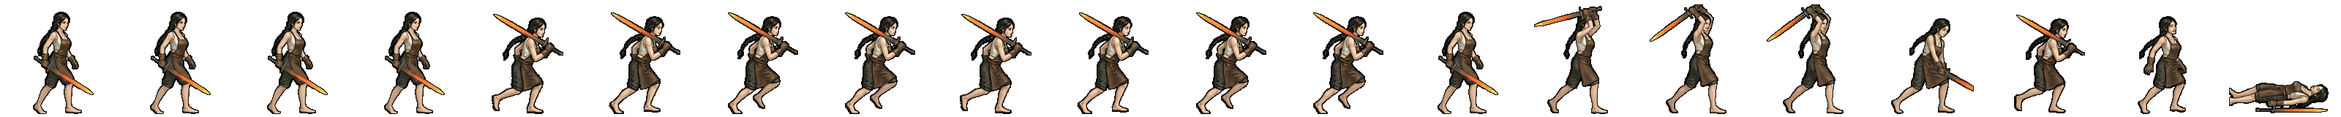
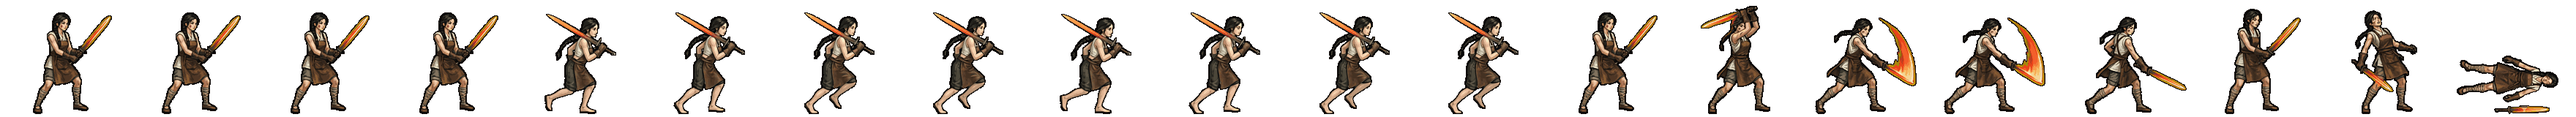
별 띠: 동작 8컷만 새로 (제미나이 u/1 · 초상만) — 큰 내려치기·쓰러짐으로 (걷기는 그대로)
Claude-Session: https://claude.ai/code/session_01TRiuN9kn81xgdziumEqNAF

diff --git a/src/realm/data/spritePx.ts b/src/realm/data/spritePx.ts
@@ -1,2 +1,2 @@
 /** public/realm/anim-px/manifest.json 의 사본 — tools/sprite-normalize.mjs 가 만든다 (손으로 고치지 말 것). 칸 [가로, 세로] · feet = 발 줄(칸 위에서 y) · bodyPx = 서 있는 몸 키 */
-export const SPRITE_PX: Readonly<Record<string, { readonly cell: readonly [number, number]; readonly feet: number; readonly bodyPx: number; readonly kind: 'general' | 'soldier' | 'folk' | 'crowd'; readonly cells: number }>> = {"axe":{"cell":[166,128],"feet":126,"bodyPx":124,"kind":"soldier","cells":20},"bandit-chief":{"cell":[116,128],"feet":126,"bodyPx":117,"kind":"soldier","cells":20},"bandit-club":{"cell":[127,128],"feet":126,"bodyPx":116,"kind":"soldier","cells":20},"boat":{"cell":[269,128],"feet":126,"bodyPx":126,"kind":"soldier","cells":20},"bow":{"cell":[503,128],"feet":126,"bodyPx":127,"kind":"soldier","cells":20},"crossbow":{"cell":[614,128],"feet":126,"bodyPx":126,"kind":"soldier","cells":20},"gen-adogan":{"cell":[144,160],"feet":156,"bodyPx":70,"kind":"general","cells":20},"gen-alpyeong":{"cell":[144,160],"feet":156,"bodyPx":70,"kind":"general","cells":20},"gen-ara":{"cell":[160,160],"feet":156,"bodyPx":70,"kind":"general","cells":20},"gen-areum":{"cell":[160,160],"feet":156,"bodyPx":70,"kind":"general","cells":20},"gen-aryeong":{"cell":[208,160],"feet":156,"bodyPx":70,"kind":"general","cells":20},"gen-bakdal":{"cell":[160,160],"feet":156,"bodyPx":70,"kind":"general","cells":20},"gen-baram":{"cell":[176,160],"feet":156,"bodyPx":70,"kind":"general","cells":20},"gen-bdanbi":{"cell":[152,160],"feet":156,"bodyPx":70,"kind":"general","cells":20},"gen-beom":{"cell":[168,160],"feet":156,"bodyPx":70,"kind":"general","cells":20},"gen-beombal":{"cell":[216,160],"feet":156,"bodyPx":70,"kind":"general","cells":20},"gen-beomi":{"cell":[160,160],"feet":156,"bodyPx":70,"kind":"general","cells":20},"gen-bira":{"cell":[176,160],"feet":156,"bodyPx":70,"kind":"general","cells":20},"gen-biryu":{"cell":[160,160],"feet":156,"bodyPx":73,"kind":"general","cells":20},"gen-budeul":{"cell":[248,160],"feet":156,"bodyPx":70,"kind":"general","cells":20},"gen-byeol":{"cell":[160,160],"feet":156,"bodyPx":70,"kind":"general","cells":20},"gen-daemusin":{"cell":[152,160],"feet":156,"bodyPx":70,"kind":"general","cells":20},"gen-daeso":{"cell":[176,160],"feet":156,"bodyPx":70,"kind":"general","cells":20},"gen-dallae2":{"cell":[168,160],"feet":156,"bodyPx":70,"kind":"general","cells":20},"gen-dalli":{"cell":[152,160],"feet":156,"bodyPx":70,"kind":"general","cells":20},"gen-damul":{"cell":[152,160],"feet":156,"bodyPx":70,"kind":"general","cells":20},"gen-danbi":{"cell":[152,160],"feet":156,"bodyPx":70,"kind":"general","cells":20},"gen-dangung":{"cell":[192,160],"feet":156,"bodyPx":70,"kind":"general","cells":20},"gen-darae":{"cell":[152,160],"feet":156,"bodyPx":70,"kind":"general","cells":20},"gen-dokmudeom":{"cell":[176,160],"feet":156,"bodyPx":70,"kind":"general","cells":20},"gen-duman":{"cell":[248,160],"feet":156,"bodyPx":70,"kind":"general","cells":20},"gen-eomni":{"cell":[160,160],"feet":156,"bodyPx":70,"kind":"general","cells":20},"gen-eureum":{"cell":[144,160],"feet":156,"bodyPx":70,"kind":"general","cells":20},"gen-g-bow":{"cell":[144,160],"feet":156,"bodyPx":70,"kind":"general","cells":20},"gen-g-spear":{"cell":[208,160],"feet":156,"bodyPx":70,"kind":"general","cells":20},"gen-g-sword":{"cell":[192,160],"feet":156,"bodyPx":70,"kind":"general","cells":20},"gen-gaennae":{"cell":[232,160],"feet":156,"bodyPx":70,"kind":"general","cells":20},"gen-gamsil":{"cell":[160,160],"feet":156,"bodyPx":70,"kind":"general","cells":20},"gen-gaon":{"cell":[152,160],"feet":156,"bodyPx":70,"kind":"general","cells":20},"gen-geota":{"cell":[192,160],"feet":156,"bodyPx":69,"kind":"general","cells":20},"gen-geumbawi":{"cell":[160,160],"feet":156,"bodyPx":70,"kind":"general","cells":20},"gen-geumha":{"cell":[192,160],"feet":156,"bodyPx":72,"kind":"general","cells":20},"gen-goeun":{"cell":[144,160],"feet":156,"bodyPx":70,"kind":"general","cells":20},"gen-gom":{"cell":[168,160],"feet":156,"bodyPx":70,"kind":"general","cells":20},"gen-gomok":{"cell":[152,160],"feet":156,"bodyPx":70,"kind":"general","cells":20},"gen-gureum":{"cell":[168,160],"feet":156,"bodyPx":70,"kind":"general","cells":20},"gen-guryema":{"cell":[152,160],"feet":156,"bodyPx":70,"kind":"general","cells":20},"gen-gwaeyu":{"cell":[200,160],"feet":156,"bodyPx":70,"kind":"general","cells":20},"gen-haebi":{"cell":[152,160],"feet":156,"bodyPx":70,"kind":"general","cells":20},"gen-haedal":{"cell":[152,160],"feet":156,"bodyPx":70,"kind":"general","cells":20},"gen-haesol":{"cell":[168,160],"feet":156,"bodyPx":70,"kind":"general","cells":20},"gen-halla":{"cell":[176,160],"feet":156,"bodyPx":70,"kind":"general","cells":20},"gen-heo":{"cell":[144,160],"feet":156,"bodyPx":70,"kind":"general","cells":20},"gen-hneoul":{"cell":[152,160],"feet":156,"bodyPx":70,"kind":"general","cells":20},"gen-hogong":{"cell":[160,160],"feet":156,"bodyPx":70,"kind":"general","cells":20},"gen-hojin":{"cell":[152,160],"feet":156,"bodyPx":70,"kind":"general","cells":20},"gen-horselord":{"cell":[144,160],"feet":156,"bodyPx":70,"kind":"general","cells":20},"gen-hwalmi":{"cell":[192,160],"feet":156,"bodyPx":70,"kind":"general","cells":20},"gen-hyeokgeose":{"cell":[160,160],"feet":156,"bodyPx":70,"kind":"general","cells":20},"gen-hyeopbo":{"cell":[168,160],"feet":156,"bodyPx":70,"kind":"general","cells":20},"gen-irang":{"cell":[160,160],"feet":156,"bodyPx":70,"kind":"general","cells":20},"gen-jibaekho":{"cell":[224,160],"feet":156,"bodyPx":70,"kind":"general","cells":20},"gen-jinha":{"cell":[168,160],"feet":156,"bodyPx":70,"kind":"general","cells":20},"gen-jita":{"cell":[144,160],"feet":156,"bodyPx":70,"kind":"general","cells":20},"gen-jumong":{"cell":[144,160],"feet":156,"bodyPx":70,"kind":"general","cells":20},"gen-keundol":{"cell":[152,160],"feet":156,"bodyPx":70,"kind":"general","cells":20},"gen-maehwa":{"cell":[144,160],"feet":156,"bodyPx":70,"kind":"general","cells":20},"gen-maenun":{"cell":[136,160],"feet":156,"bodyPx":70,"kind":"general","cells":20},"gen-malgalgi":{"cell":[168,160],"feet":156,"bodyPx":70,"kind":"general","cells":20},"gen-mari":{"cell":[152,160],"feet":156,"bodyPx":70,"kind":"general","cells":20},"gen-maro":{"cell":[160,160],"feet":156,"bodyPx":70,"kind":"general","cells":20},"gen-maryeo":{"cell":[152,160],"feet":156,"bodyPx":70,"kind":"general","cells":20},"gen-mdallae":{"cell":[168,160],"feet":156,"bodyPx":70,"kind":"general","cells":20},"gen-mir":{"cell":[144,160],"feet":156,"bodyPx":70,"kind":"general","cells":20},"gen-mount":{"cell":[232,160],"feet":156,"bodyPx":73,"kind":"general","cells":20},"gen-mulbeom":{"cell":[160,160],"feet":156,"bodyPx":70,"kind":"general","cells":20},"gen-mulsae":{"cell":[168,160],"feet":156,"bodyPx":70,"kind":"general","cells":20},"gen-musoe":{"cell":[152,160],"feet":156,"bodyPx":70,"kind":"general","cells":20},"gen-noeul":{"cell":[160,160],"feet":156,"bodyPx":70,"kind":"general","cells":20},"gen-nuri":{"cell":[168,160],"feet":156,"bodyPx":70,"kind":"general","cells":20},"gen-ocheongan":{"cell":[168,160],"feet":156,"bodyPx":70,"kind":"general","cells":20},"gen-odi":{"cell":[152,160],"feet":156,"bodyPx":70,"kind":"general","cells":20},"gen-odogan":{"cell":[168,160],"feet":156,"bodyPx":70,"kind":"general","cells":20},"gen-ogan":{"cell":[152,160],"feet":156,"bodyPx":70,"kind":"general","cells":20},"gen-oi":{"cell":[152,160],"feet":156,"bodyPx":70,"kind":"general","cells":20},"gen-olddaeso":{"cell":[144,160],"feet":156,"bodyPx":70,"kind":"general","cells":20},"gen-onjo":{"cell":[152,160],"feet":156,"bodyPx":70,"kind":"general","cells":20},"gen-pidogan":{"cell":[152,160],"feet":156,"bodyPx":70,"kind":"general","cells":20},"gen-sagong":{"cell":[160,160],"feet":156,"bodyPx":70,"kind":"general","cells":20},"gen-sdallae":{"cell":[168,160],"feet":156,"bodyPx":70,"kind":"general","cells":20},"gen-sincheongan":{"cell":[160,160],"feet":156,"bodyPx":70,"kind":"general","cells":20},"gen-singwigan":{"cell":[208,160],"feet":156,"bodyPx":70,"kind":"general","cells":20},"gen-sinneoul":{"cell":[176,160],"feet":156,"bodyPx":70,"kind":"general","cells":20},"gen-sobeol":{"cell":[152,160],"feet":156,"bodyPx":70,"kind":"general","cells":20},"gen-soebi":{"cell":[160,160],"feet":156,"bodyPx":70,"kind":"general","cells":20},"gen-soebo":{"cell":[208,160],"feet":156,"bodyPx":72,"kind":"general","cells":20},"gen-soenun":{"cell":[248,160],"feet":156,"bodyPx":70,"kind":"general","cells":20},"gen-sogeumbi":{"cell":[232,160],"feet":156,"bodyPx":70,"kind":"general","cells":20},"gen-songbi":{"cell":[152,160],"feet":156,"bodyPx":70,"kind":"general","cells":20},"gen-songyang":{"cell":[136,160],"feet":156,"bodyPx":70,"kind":"general","cells":20},"gen-sori":{"cell":[208,160],"feet":156,"bodyPx":70,"kind":"general","cells":20},"gen-soseono":{"cell":[208,160],"feet":156,"bodyPx":70,"kind":"general","cells":20},"gen-suro":{"cell":[160,160],"feet":156,"bodyPx":70,"kind":"general","cells":20},"gen-tahae":{"cell":[152,160],"feet":156,"bodyPx":70,"kind":"general","cells":20},"gen-tneoul":{"cell":[152,160],"feet":156,"bodyPx":70,"kind":"general","cells":20},"gen-w-bow":{"cell":[144,160],"feet":156,"bodyPx":70,"kind":"general","cells":20},"gen-w-spear":{"cell":[176,160],"feet":156,"bodyPx":70,"kind":"general","cells":20},"gen-waechief":{"cell":[152,160],"feet":156,"bodyPx":70,"kind":"general","cells":20},"gen-wan":{"cell":[144,160],"feet":156,"bodyPx":70,"kind":"general","cells":20},"gen-yeodogan":{"cell":[176,160],"feet":156,"bodyPx":70,"kind":"general","cells":20},"gen-yucheongan":{"cell":[152,160],"feet":156,"bodyPx":70,"kind":"general","cells":20},"gen-yusugan":{"cell":[168,160],"feet":156,"bodyPx":70,"kind":"general","cells":20},"horse":{"cell":[186,128],"feet":126,"bodyPx":127,"kind":"soldier","cells":20},"marine":{"cell":[298,128],"feet":126,"bodyPx":126,"kind":"soldier","cells":20},"migrant":{"cell":[82,128],"feet":126,"bodyPx":114,"kind":"folk","cells":8},"militia":{"cell":[134,128],"feet":126,"bodyPx":119,"kind":"soldier","cells":20},"pike":{"cell":[380,128],"feet":126,"bodyPx":124,"kind":"soldier","cells":20},"pirate-captain":{"cell":[114,128],"feet":126,"bodyPx":115,"kind":"soldier","cells":20},"pirate-sword":{"cell":[122,128],"feet":126,"bodyPx":114,"kind":"soldier","cells":20},"shield":{"cell":[254,128],"feet":126,"bodyPx":128,"kind":"soldier","cells":20},"spear":{"cell":[438,128],"feet":126,"bodyPx":126,"kind":"soldier","cells":20},"villager-builder":{"cell":[88,128],"feet":126,"bodyPx":113,"kind":"folk","cells":8},"villager-farmer":{"cell":[100,128],"feet":126,"bodyPx":115,"kind":"folk","cells":8},"villager-porter":{"cell":[108,128],"feet":126,"bodyPx":115,"kind":"folk","cells":8},"villager-woman":{"cell":[63,128],"feet":126,"bodyPx":113,"kind":"folk","cells":8},"crowd-b1":{"cell":[69,96],"feet":96,"bodyPx":96,"kind":"crowd","cells":1},"crowd-b2":{"cell":[54,96],"feet":96,"bodyPx":96,"kind":"crowd","cells":1},"crowd-b3":{"cell":[47,96],"feet":96,"bodyPx":96,"kind":"crowd","cells":1},"crowd-b4":{"cell":[49,96],"feet":96,"bodyPx":96,"kind":"crowd","cells":1},"crowd-b5":{"cell":[57,96],"feet":96,"bodyPx":96,"kind":"crowd","cells":1},"crowd-b6":{"cell":[55,96],"feet":96,"bodyPx":96,"kind":"crowd","cells":1},"crowd-f1":{"cell":[69,96],"feet":96,"bodyPx":96,"kind":"crowd","cells":1},"crowd-f2":{"cell":[55,96],"feet":96,"bodyPx":96,"kind":"crowd","cells":1},"crowd-f3":{"cell":[45,96],"feet":96,"bodyPx":96,"kind":"crowd","cells":1},"crowd-f4":{"cell":[53,96],"feet":96,"bodyPx":96,"kind":"crowd","cells":1},"crowd-f5":{"cell":[69,96],"feet":96,"bodyPx":96,"kind":"crowd","cells":1},"crowd-f6":{"cell":[64,96],"feet":96,"bodyPx":96,"kind":"crowd","cells":1},"gen-dalbit":{"cell":[96,72],"feet":72,"bodyPx":72,"kind":"general","cells":20}}
+export const SPRITE_PX: Readonly<Record<string, { readonly cell: readonly [number, number]; readonly feet: number; readonly bodyPx: number; readonly kind: 'general' | 'soldier' | 'folk' | 'crowd'; readonly cells: number }>> = {"axe":{"cell":[166,128],"feet":126,"bodyPx":124,"kind":"soldier","cells":20},"bandit-chief":{"cell":[116,128],"feet":126,"bodyPx":117,"kind":"soldier","cells":20},"bandit-club":{"cell":[127,128],"feet":126,"bodyPx":116,"kind":"soldier","cells":20},"boat":{"cell":[269,128],"feet":126,"bodyPx":126,"kind":"soldier","cells":20},"bow":{"cell":[503,128],"feet":126,"bodyPx":127,"kind":"soldier","cells":20},"crossbow":{"cell":[614,128],"feet":126,"bodyPx":126,"kind":"soldier","cells":20},"gen-adogan":{"cell":[144,160],"feet":156,"bodyPx":70,"kind":"general","cells":20},"gen-alpyeong":{"cell":[144,160],"feet":156,"bodyPx":70,"kind":"general","cells":20},"gen-ara":{"cell":[160,160],"feet":156,"bodyPx":70,"kind":"general","cells":20},"gen-areum":{"cell":[160,160],"feet":156,"bodyPx":70,"kind":"general","cells":20},"gen-aryeong":{"cell":[208,160],"feet":156,"bodyPx":70,"kind":"general","cells":20},"gen-bakdal":{"cell":[160,160],"feet":156,"bodyPx":70,"kind":"general","cells":20},"gen-baram":{"cell":[176,160],"feet":156,"bodyPx":70,"kind":"general","cells":20},"gen-bdanbi":{"cell":[152,160],"feet":156,"bodyPx":70,"kind":"general","cells":20},"gen-beom":{"cell":[168,160],"feet":156,"bodyPx":70,"kind":"general","cells":20},"gen-beombal":{"cell":[216,160],"feet":156,"bodyPx":70,"kind":"general","cells":20},"gen-beomi":{"cell":[160,160],"feet":156,"bodyPx":70,"kind":"general","cells":20},"gen-bira":{"cell":[176,160],"feet":156,"bodyPx":70,"kind":"general","cells":20},"gen-biryu":{"cell":[160,160],"feet":156,"bodyPx":73,"kind":"general","cells":20},"gen-budeul":{"cell":[248,160],"feet":156,"bodyPx":70,"kind":"general","cells":20},"gen-byeol":{"cell":[176,160],"feet":156,"bodyPx":70,"kind":"general","cells":20},"gen-daemusin":{"cell":[152,160],"feet":156,"bodyPx":70,"kind":"general","cells":20},"gen-daeso":{"cell":[176,160],"feet":156,"bodyPx":70,"kind":"general","cells":20},"gen-dallae2":{"cell":[168,160],"feet":156,"bodyPx":70,"kind":"general","cells":20},"gen-dalli":{"cell":[152,160],"feet":156,"bodyPx":70,"kind":"general","cells":20},"gen-damul":{"cell":[152,160],"feet":156,"bodyPx":70,"kind":"general","cells":20},"gen-danbi":{"cell":[152,160],"feet":156,"bodyPx":70,"kind":"general","cells":20},"gen-dangung":{"cell":[192,160],"feet":156,"bodyPx":70,"kind":"general","cells":20},"gen-darae":{"cell":[152,160],"feet":156,"bodyPx":70,"kind":"general","cells":20},"gen-dokmudeom":{"cell":[176,160],"feet":156,"bodyPx":70,"kind":"general","cells":20},"gen-duman":{"cell":[248,160],"feet":156,"bodyPx":70,"kind":"general","cells":20},"gen-eomni":{"cell":[160,160],"feet":156,"bodyPx":70,"kind":"general","cells":20},"gen-eureum":{"cell":[144,160],"feet":156,"bodyPx":70,"kind":"general","cells":20},"gen-g-bow":{"cell":[144,160],"feet":156,"bodyPx":70,"kind":"general","cells":20},"gen-g-spear":{"cell":[208,160],"feet":156,"bodyPx":70,"kind":"general","cells":20},"gen-g-sword":{"cell":[192,160],"feet":156,"bodyPx":70,"kind":"general","cells":20},"gen-gaennae":{"cell":[232,160],"feet":156,"bodyPx":70,"kind":"general","cells":20},"gen-gamsil":{"cell":[160,160],"feet":156,"bodyPx":70,"kind":"general","cells":20},"gen-gaon":{"cell":[152,160],"feet":156,"bodyPx":70,"kind":"general","cells":20},"gen-geota":{"cell":[192,160],"feet":156,"bodyPx":69,"kind":"general","cells":20},"gen-geumbawi":{"cell":[160,160],"feet":156,"bodyPx":70,"kind":"general","cells":20},"gen-geumha":{"cell":[192,160],"feet":156,"bodyPx":72,"kind":"general","cells":20},"gen-goeun":{"cell":[144,160],"feet":156,"bodyPx":70,"kind":"general","cells":20},"gen-gom":{"cell":[168,160],"feet":156,"bodyPx":70,"kind":"general","cells":20},"gen-gomok":{"cell":[152,160],"feet":156,"bodyPx":70,"kind":"general","cells":20},"gen-gureum":{"cell":[168,160],"feet":156,"bodyPx":70,"kind":"general","cells":20},"gen-guryema":{"cell":[152,160],"feet":156,"bodyPx":70,"kind":"general","cells":20},"gen-gwaeyu":{"cell":[200,160],"feet":156,"bodyPx":70,"kind":"general","cells":20},"gen-haebi":{"cell":[152,160],"feet":156,"bodyPx":70,"kind":"general","cells":20},"gen-haedal":{"cell":[152,160],"feet":156,"bodyPx":70,"kind":"general","cells":20},"gen-haesol":{"cell":[168,160],"feet":156,"bodyPx":70,"kind":"general","cells":20},"gen-halla":{"cell":[176,160],"feet":156,"bodyPx":70,"kind":"general","cells":20},"gen-heo":{"cell":[144,160],"feet":156,"bodyPx":70,"kind":"general","cells":20},"gen-hneoul":{"cell":[152,160],"feet":156,"bodyPx":70,"kind":"general","cells":20},"gen-hogong":{"cell":[160,160],"feet":156,"bodyPx":70,"kind":"general","cells":20},"gen-hojin":{"cell":[152,160],"feet":156,"bodyPx":70,"kind":"general","cells":20},"gen-horselord":{"cell":[144,160],"feet":156,"bodyPx":70,"kind":"general","cells":20},"gen-hwalmi":{"cell":[192,160],"feet":156,"bodyPx":70,"kind":"general","cells":20},"gen-hyeokgeose":{"cell":[160,160],"feet":156,"bodyPx":70,"kind":"general","cells":20},"gen-hyeopbo":{"cell":[168,160],"feet":156,"bodyPx":70,"kind":"general","cells":20},"gen-irang":{"cell":[160,160],"feet":156,"bodyPx":70,"kind":"general","cells":20},"gen-jibaekho":{"cell":[224,160],"feet":156,"bodyPx":70,"kind":"general","cells":20},"gen-jinha":{"cell":[168,160],"feet":156,"bodyPx":70,"kind":"general","cells":20},"gen-jita":{"cell":[144,160],"feet":156,"bodyPx":70,"kind":"general","cells":20},"gen-jumong":{"cell":[144,160],"feet":156,"bodyPx":70,"kind":"general","cells":20},"gen-keundol":{"cell":[152,160],"feet":156,"bodyPx":70,"kind":"general","cells":20},"gen-maehwa":{"cell":[144,160],"feet":156,"bodyPx":70,"kind":"general","cells":20},"gen-maenun":{"cell":[136,160],"feet":156,"bodyPx":70,"kind":"general","cells":20},"gen-malgalgi":{"cell":[168,160],"feet":156,"bodyPx":70,"kind":"general","cells":20},"gen-mari":{"cell":[152,160],"feet":156,"bodyPx":70,"kind":"general","cells":20},"gen-maro":{"cell":[160,160],"feet":156,"bodyPx":70,"kind":"general","cells":20},"gen-maryeo":{"cell":[152,160],"feet":156,"bodyPx":70,"kind":"general","cells":20},"gen-mdallae":{"cell":[168,160],"feet":156,"bodyPx":70,"kind":"general","cells":20},"gen-mir":{"cell":[144,160],"feet":156,"bodyPx":70,"kind":"general","cells":20},"gen-mount":{"cell":[232,160],"feet":156,"bodyPx":73,"kind":"general","cells":20},"gen-mulbeom":{"cell":[160,160],"feet":156,"bodyPx":70,"kind":"general","cells":20},"gen-mulsae":{"cell":[168,160],"feet":156,"bodyPx":70,"kind":"general","cells":20},"gen-musoe":{"cell":[152,160],"feet":156,"bodyPx":70,"kind":"general","cells":20},"gen-noeul":{"cell":[160,160],"feet":156,"bodyPx":70,"kind":"general","cells":20},"gen-nuri":{"cell":[168,160],"feet":156,"bodyPx":70,"kind":"general","cells":20},"gen-ocheongan":{"cell":[168,160],"feet":156,"bodyPx":70,"kind":"general","cells":20},"gen-odi":{"cell":[152,160],"feet":156,"bodyPx":70,"kind":"general","cells":20},"gen-odogan":{"cell":[168,160],"feet":156,"bodyPx":70,"kind":"general","cells":20},"gen-ogan":{"cell":[152,160],"feet":156,"bodyPx":70,"kind":"general","cells":20},"gen-oi":{"cell":[152,160],"feet":156,"bodyPx":70,"kind":"general","cells":20},"gen-olddaeso":{"cell":[144,160],"feet":156,"bodyPx":70,"kind":"general","cells":20},"gen-onjo":{"cell":[152,160],"feet":156,"bodyPx":70,"kind":"general","cells":20},"gen-pidogan":{"cell":[152,160],"feet":156,"bodyPx":70,"kind":"general","cells":20},"gen-sagong":{"cell":[160,160],"feet":156,"bodyPx":70,"kind":"general","cells":20},"gen-sdallae":{"cell":[168,160],"feet":156,"bodyPx":70,"kind":"general","cells":20},"gen-sincheongan":{"cell":[160,160],"feet":156,"bodyPx":70,"kind":"general","cells":20},"gen-singwigan":{"cell":[208,160],"feet":156,"bodyPx":70,"kind":"general","cells":20},"gen-sinneoul":{"cell":[176,160],"feet":156,"bodyPx":70,"kind":"general","cells":20},"gen-sobeol":{"cell":[152,160],"feet":156,"bodyPx":70,"kind":"general","cells":20},"gen-soebi":{"cell":[160,160],"feet":156,"bodyPx":70,"kind":"general","cells":20},"gen-soebo":{"cell":[208,160],"feet":156,"bodyPx":72,"kind":"general","cells":20},"gen-soenun":{"cell":[248,160],"feet":156,"bodyPx":70,"kind":"general","cells":20},"gen-sogeumbi":{"cell":[232,160],"feet":156,"bodyPx":70,"kind":"general","cells":20},"gen-songbi":{"cell":[152,160],"feet":156,"bodyPx":70,"kind":"general","cells":20},"gen-songyang":{"cell":[136,160],"feet":156,"bodyPx":70,"kind":"general","cells":20},"gen-sori":{"cell":[208,160],"feet":156,"bodyPx":70,"kind":"general","cells":20},"gen-soseono":{"cell":[208,160],"feet":156,"bodyPx":70,"kind":"general","cells":20},"gen-suro":{"cell":[160,160],"feet":156,"bodyPx":70,"kind":"general","cells":20},"gen-tahae":{"cell":[152,160],"feet":156,"bodyPx":70,"kind":"general","cells":20},"gen-tneoul":{"cell":[152,160],"feet":156,"bodyPx":70,"kind":"general","cells":20},"gen-w-bow":{"cell":[144,160],"feet":156,"bodyPx":70,"kind":"general","cells":20},"gen-w-spear":{"cell":[176,160],"feet":156,"bodyPx":70,"kind":"general","cells":20},"gen-waechief":{"cell":[152,160],"feet":156,"bodyPx":70,"kind":"general","cells":20},"gen-wan":{"cell":[144,160],"feet":156,"bodyPx":70,"kind":"general","cells":20},"gen-yeodogan":{"cell":[176,160],"feet":156,"bodyPx":70,"kind":"general","cells":20},"gen-yucheongan":{"cell":[152,160],"feet":156,"bodyPx":70,"kind":"general","cells":20},"gen-yusugan":{"cell":[168,160],"feet":156,"bodyPx":70,"kind":"general","cells":20},"horse":{"cell":[186,128],"feet":126,"bodyPx":127,"kind":"soldier","cells":20},"marine":{"cell":[298,128],"feet":126,"bodyPx":126,"kind":"soldier","cells":20},"migrant":{"cell":[82,128],"feet":126,"bodyPx":114,"kind":"folk","cells":8},"militia":{"cell":[134,128],"feet":126,"bodyPx":119,"kind":"soldier","cells":20},"pike":{"cell":[380,128],"feet":126,"bodyPx":124,"kind":"soldier","cells":20},"pirate-captain":{"cell":[114,128],"feet":126,"bodyPx":115,"kind":"soldier","cells":20},"pirate-sword":{"cell":[122,128],"feet":126,"bodyPx":114,"kind":"soldier","cells":20},"shield":{"cell":[254,128],"feet":126,"bodyPx":128,"kind":"soldier","cells":20},"spear":{"cell":[438,128],"feet":126,"bodyPx":126,"kind":"soldier","cells":20},"villager-builder":{"cell":[88,128],"feet":126,"bodyPx":113,"kind":"folk","cells":8},"villager-farmer":{"cell":[100,128],"feet":126,"bodyPx":115,"kind":"folk","cells":8},"villager-porter":{"cell":[108,128],"feet":126,"bodyPx":115,"kind":"folk","cells":8},"villager-woman":{"cell":[63,128],"feet":126,"bodyPx":113,"kind":"folk","cells":8},"crowd-b1":{"cell":[69,96],"feet":96,"bodyPx":96,"kind":"crowd","cells":1},"crowd-b2":{"cell":[54,96],"feet":96,"bodyPx":96,"kind":"crowd","cells":1},"crowd-b3":{"cell":[47,96],"feet":96,"bodyPx":96,"kind":"crowd","cells":1},"crowd-b4":{"cell":[49,96],"feet":96,"bodyPx":96,"kind":"crowd","cells":1},"crowd-b5":{"cell":[57,96],"feet":96,"bodyPx":96,"kind":"crowd","cells":1},"crowd-b6":{"cell":[55,96],"feet":96,"bodyPx":96,"kind":"crowd","cells":1},"crowd-f1":{"cell":[69,96],"feet":96,"bodyPx":96,"kind":"crowd","cells":1},"crowd-f2":{"cell":[55,96],"feet":96,"bodyPx":96,"kind":"crowd","cells":1},"crowd-f3":{"cell":[45,96],"feet":96,"bodyPx":96,"kind":"crowd","cells":1},"crowd-f4":{"cell":[53,96],"feet":96,"bodyPx":96,"kind":"crowd","cells":1},"crowd-f5":{"cell":[69,96],"feet":96,"bodyPx":96,"kind":"crowd","cells":1},"crowd-f6":{"cell":[64,96],"feet":96,"bodyPx":96,"kind":"crowd","cells":1},"gen-dalbit":{"cell":[96,72],"feet":72,"bodyPx":72,"kind":"general","cells":20}}

diff --git a/src/ui/realm/battle-strikes.ts b/src/ui/realm/battle-strikes.ts
@@ -143,7 +143,7 @@ const CONTACT: Readonly<Record<string, [number, number, number]>> = {
   'gen-haebi': [14, 0.87, 0.73], 'gen-heo': [14, 0.94, 0.46], 'gen-hyeokgeose': [14, 0.83, 0.94],
   'gen-hyeopbo': [14, .93, .21], 'gen-malgalgi': [14, 0.88, 0.28], 'gen-mari': [14, .98, .47],
   'gen-oi': [14, .98, .48], 'gen-onjo': [14, 0.83, 0.93], 'gen-soebi': [14, 0.80, 0.95],
-  'gen-soseono': [14, 0.99, 0.36], 'gen-bdanbi': [14, 0.90, 0.67], 'gen-dallae2': [14, 0.97, 0.16], 'gen-maryeo': [14, 0.91, 0.79], 'gen-horselord': [14, 0.89, 0.25], 'gen-olddaeso': [14, 0.93, 0.91], 'gen-maro': [14, 0.97, 0.49], 'gen-gwaeyu': [14, 0.98, 0.71], 'gen-daemusin': [14, 0.91, 0.38], 'gen-tahae': [14, 0.91, 0.74], 'gen-ocheongan': [14, 0.82, 0.49], 'gen-yusugan': [14, 0.95, 0.70], 'gen-odogan': [14, 0.96, 0.33], 'gen-pidogan': [14, 0.94, 0.75], 'gen-yeodogan': [14, 0.93, 0.57], 'gen-adogan': [14, 0.95, 0.41], 'gen-musoe': [14, 0.94, 0.39], 'gen-suro': [14, 0.82, 0.53], 'gen-waechief': [14, 0.95, 0.68], 'gen-hojin': [14, 0.97, 0.64], 'gen-jita': [14, 0.93, 0.29], 'gen-guryema': [14, 0.89, 0.28], 'gen-jibaekho': [14, 0.97, 0.33], 'gen-sobeol': [14, 0.95, 0.33], 'gen-alpyeong': [14, 0.95, 0.54], 'gen-hogong': [14, 0.98, 0.27], 'gen-geumbawi': [14, 0.91, 0.92], 'gen-keundol': [14, 0.90, 0.68], 'gen-jinha': [14, 0.76, 0.93], 'gen-duman': [14, 0.97, 0.39], 'gen-gomok': [14, 0.94, 0.57], 'gen-hneoul': [14, 0.92, 0.27], 'gen-tneoul': [14, 0.84, 0.57], 'gen-sdallae': [14, 0.89, 0.29], 'gen-yucheongan': [14, 0.94, 0.48], 'gen-sincheongan': [14, 0.91, 0.71], 'gen-singwigan': [14, 0.98, 0.21], 'gen-mdallae': [14, 0.98, 0.29], 'gen-mulbeom': [14, 0.95, 0.39], 'gen-beomi': [14, 0.88, 0.43], 'gen-danbi': [14, 0.90, 0.30], 'gen-mulsae': [14, 0.92, 0.46], 'gen-darae': [14, 0.89, 0.29], 'gen-mir': [14, 0.91, 0.33], 'gen-wan': [14, 0.94, 0.30], 'gen-gom': [14, 0.94, 0.74], 'gen-sagong': [14, 0.79, 0.96], 'gen-halla': [14, 0.86, 0.46], 'gen-areum': [14, 0.86, 0.65], 'gen-dokmudeom': [14, 0.95, 0.28], 'gen-beom': [14, 0.98, 0.28], 'gen-baram': [14, 0.96, 0.24], 'gen-goeun': [14, 0.95, 0.66], 'gen-byeol': [14, 0.76, 0.96], 'gen-sinneoul': [14, 0.95, 0.33], 'gen-haesol': [14, 0.95, 0.39], 'gen-odi': [14, 0.95, 0.37], 'gen-irang': [14, 0.86, 0.30], 'gen-dalli': [14, 0.89, 0.32], 'gen-bakdal': [14, 0.94, 0.27], 'gen-noeul': [14, 0.88, 0.27], 'gen-maehwa': [14, 0.90, 0.31], 'gen-gaon': [14, 0.98, 0.48], 'gen-eomni': [14, 0.96, 0.42], 'gen-nuri': [14, 0.98, 0.42], 'gen-bira': [14, 0.88, 0.42], 'gen-gureum': [14, 0.98, 0.42],
+  'gen-soseono': [14, 0.99, 0.36], 'gen-bdanbi': [14, 0.90, 0.67], 'gen-dallae2': [14, 0.97, 0.16], 'gen-maryeo': [14, 0.91, 0.79], 'gen-horselord': [14, 0.89, 0.25], 'gen-olddaeso': [14, 0.93, 0.91], 'gen-maro': [14, 0.97, 0.49], 'gen-gwaeyu': [14, 0.98, 0.71], 'gen-daemusin': [14, 0.91, 0.38], 'gen-tahae': [14, 0.91, 0.74], 'gen-ocheongan': [14, 0.82, 0.49], 'gen-yusugan': [14, 0.95, 0.70], 'gen-odogan': [14, 0.96, 0.33], 'gen-pidogan': [14, 0.94, 0.75], 'gen-yeodogan': [14, 0.93, 0.57], 'gen-adogan': [14, 0.95, 0.41], 'gen-musoe': [14, 0.94, 0.39], 'gen-suro': [14, 0.82, 0.53], 'gen-waechief': [14, 0.95, 0.68], 'gen-hojin': [14, 0.97, 0.64], 'gen-jita': [14, 0.93, 0.29], 'gen-guryema': [14, 0.89, 0.28], 'gen-jibaekho': [14, 0.97, 0.33], 'gen-sobeol': [14, 0.95, 0.33], 'gen-alpyeong': [14, 0.95, 0.54], 'gen-hogong': [14, 0.98, 0.27], 'gen-geumbawi': [14, 0.91, 0.92], 'gen-keundol': [14, 0.90, 0.68], 'gen-jinha': [14, 0.76, 0.93], 'gen-duman': [14, 0.97, 0.39], 'gen-gomok': [14, 0.94, 0.57], 'gen-hneoul': [14, 0.92, 0.27], 'gen-tneoul': [14, 0.84, 0.57], 'gen-sdallae': [14, 0.89, 0.29], 'gen-yucheongan': [14, 0.94, 0.48], 'gen-sincheongan': [14, 0.91, 0.71], 'gen-singwigan': [14, 0.98, 0.21], 'gen-mdallae': [14, 0.98, 0.29], 'gen-mulbeom': [14, 0.95, 0.39], 'gen-beomi': [14, 0.88, 0.43], 'gen-danbi': [14, 0.90, 0.30], 'gen-mulsae': [14, 0.92, 0.46], 'gen-darae': [14, 0.89, 0.29], 'gen-mir': [14, 0.91, 0.33], 'gen-wan': [14, 0.94, 0.30], 'gen-gom': [14, 0.94, 0.74], 'gen-sagong': [14, 0.79, 0.96], 'gen-halla': [14, 0.86, 0.46], 'gen-areum': [14, 0.86, 0.65], 'gen-dokmudeom': [14, 0.95, 0.28], 'gen-beom': [14, 0.98, 0.28], 'gen-baram': [14, 0.96, 0.24], 'gen-goeun': [14, 0.95, 0.66], 'gen-byeol': [14, .88, .60], 'gen-sinneoul': [14, 0.95, 0.33], 'gen-haesol': [14, 0.95, 0.39], 'gen-odi': [14, 0.95, 0.37], 'gen-irang': [14, 0.86, 0.30], 'gen-dalli': [14, 0.89, 0.32], 'gen-bakdal': [14, 0.94, 0.27], 'gen-noeul': [14, 0.88, 0.27], 'gen-maehwa': [14, 0.90, 0.31], 'gen-gaon': [14, 0.98, 0.48], 'gen-eomni': [14, 0.96, 0.42], 'gen-nuri': [14, 0.98, 0.42], 'gen-bira': [14, 0.88, 0.42], 'gen-gureum': [14, 0.98, 0.42],
   'gen-biryu': [14, 0.90, 0.35], 'gen-geumha': [14, 0.94, 0.61], 'gen-geota': [14, 0.86, 0.47], 'gen-soebo': [14, 0.87, 0.57],
   'gen-gaennae': [14, 249 / 264, 47 / 160],
   'gen-budeul': [14, 266 / 280, 51 / 160],

diff --git a/src/realm/data/art.ts b/src/realm/data/art.ts
@@ -522,7 +522,7 @@ export const GEN_ANIM: Readonly<Partial<Record<string, { ar: number; body: numbe
   odi: { ar: 155 / 160, body: 0.906 }, // 11-08 초상대로 다시 (형: 「투구 쓰고 원본과 다르다」 · 제미나이 걷기 4×2 + 동작 4×2 → 20컷 · assets_src/realm/gemini/generals2) · 11-08 처음 · 오디 동작 띠 다시 — 창 가운데를 두 손으로 잡고 창날이 보이게 찌른다 (SPEAR 절 · 검수 1번)
   haesol: { ar: 167 / 160, body: 0.906 }, // 11-08 초상대로 다시 (형: 「투구 쓰고 원본과 다르다」 · 제미나이 걷기 4×2 + 동작 4×2 → 20컷 · assets_src/realm/gemini/generals2) · 11-08 처음 · haesol 동작 띠 다시 — 형이 구움 (굽기 꾸러미 · 검수 1·3번)
   sinneoul: { ar: 175 / 160, body: 0.906 }, // 11-08 초상대로 다시 (형: 「투구 쓰고 원본과 다르다」 · 제미나이 걷기 4×2 + 동작 4×2 → 20컷 · assets_src/realm/gemini/generals2) · 11-08 처음 · sinneoul 동작 띠 다시 — 형이 구움 (굽기 꾸러미 · 검수 1·3번)
-  byeol: { ar: 155 / 160, body: 0.906 }, // 11-08 초상대로 다시 (형: 「투구 쓰고 원본과 다르다」 · 제미나이 걷기 4×2 + 동작 4×2 → 20컷 · assets_src/realm/gemini/generals2) · 11-08 처음 · 벽진 별(땋은 머리·흰 민소매에 가죽 대장장이 앞치마·맨발·달군 쇠칼 내려치기)
+  byeol: { ar: 179 / 160, body: 0.906 }, // 11-11 동작 8컷만 새로(제미나이 u/1 · 초상만 · 큰 내려치기·쓰러짐, 걷기는 그대로) · 11-08 초상대로 다시 (형: 「투구 쓰고 원본과 다르다」 · 제미나이 걷기 4×2 + 동작 4×2 → 20컷 · assets_src/realm/gemini/generals2) · 11-08 처음 · 벽진 별(땋은 머리·흰 민소매에 가죽 대장장이 앞치마·맨발·달군 쇠칼 내려치기)
   goeun: { ar: 142 / 160, body: 0.900 }, // 11-08 초상대로 다시 (형: 「투구 쓰고 원본과 다르다」 · 제미나이 걷기 4×2 + 동작 4×2 → 20컷 · assets_src/realm/gemini/generals2) · 11-08 처음 · 신라 고은(붉은 끈 긴 머리·짙은 붉은 비단 짧은 저고리·높게 트인 치마·곧은 고리자루 칼 베기)
   baram: { ar: 173 / 160, body: 0.900 }, // 11-08 초상대로 다시 (형: 「투구 쓰고 원본과 다르다」 · 제미나이 걷기 4×2 + 동작 4×2 → 20컷 · assets_src/realm/gemini/generals2) · 11-08 처음 · 고사부리 바람(바람에 날리는 긴 머리·크림빛 긴 목도리·짙은 남색 짧은 윗옷·트인 치마·청동 잎 단검 찌르기)
   beom: { ar: 164 / 160, body: 0.894 }, // 11-08 초상대로 다시 (형: 「투구 쓰고 원본과 다르다」 · 제미나이 걷기 4×2 + 동작 4×2 → 20컷 · assets_src/realm/gemini/generals2) · 11-08 처음 · 골벌 범(헝클어진 긴 머리·범 가죽 어깨 망토·짙은 가죽 짧은 윗옷·범 발톱 팔찌·발톱 같은 굽은 청동 단검)
